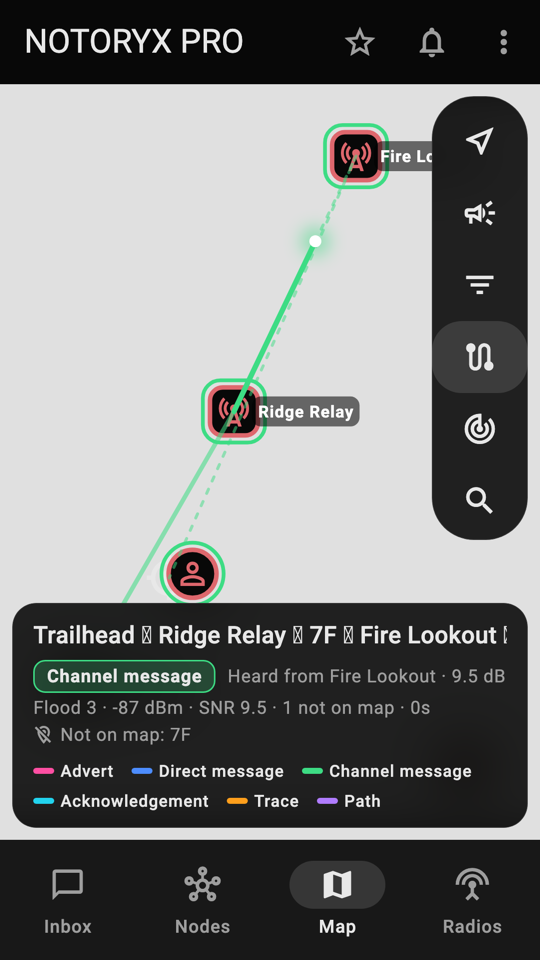
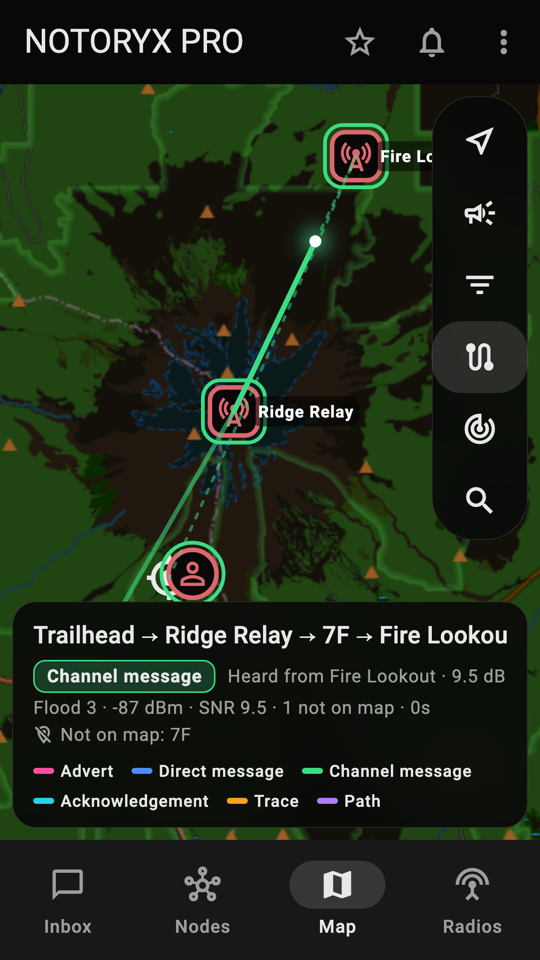
Screenshots: draw → in the traffic map shot, on real tiles
Tests don't fall back to other fonts, so the hop-path arrows drew as
boxes. Screenshot tests now set a test-only fallback font on every theme.
The traffic shot also gets live map tiles and goes into the README.

diff --git a/test/screenshots/traffic_screenshot_test.dart b/test/screenshots/traffic_screenshot_test.dart
@@ -14,6 +14,7 @@ import 'package:notoryx_pro/demo/demo_radio.dart';
 import 'package:notoryx_pro/mesh/mesh.dart';
 import 'package:notoryx_pro/store/mesh_store.dart';
 import 'package:notoryx_pro/ui/app.dart';
+import 'package:notoryx_pro/ui/map_tiles.dart';
 import 'package:notoryx_pro/ui/themes.dart';
 
 import 'readme_screenshots_test.dart' show loadFonts, ratio, run, size;
@@ -33,6 +34,13 @@ void main() {
     addTearDown(t.view.reset);
     addTearDown(t.platformDispatcher.clearAllTestValues);
 
+    // Tests block the network; the map fetches the few OpenStreetMap tiles
+    // it shows (the radios are demo).
+    final blocked = HttpOverrides.current;
+    HttpOverrides.global = null;
+    addTearDown(() => HttpOverrides.global = blocked);
+    final tiles = MapTiles.uncached();
+
     final store = MeshStore.memory();
     final app = AppController(
       store: store,
@@ -50,7 +58,11 @@ void main() {
     await t.pumpWidget(
       RepaintBoundary(
         key: boundary,
-        child: NotoryxProApp(app: app, initialTheme: const ThemeChoice()),
+        child: NotoryxProApp(
+          app: app,
+          initialTheme: const ThemeChoice(),
+          tiles: tiles,
+        ),
       ),
     );
     Future<void> frames(int n) async {
@@ -65,7 +77,7 @@ void main() {
     await t.tap(find.byIcon(Icons.map_outlined));
     await frames(10);
     await t.tap(find.byKey(const Key('map-fit')));
-    await frames(4);
+    await frames(25);
     await t.tap(find.byKey(const Key('map-traffic')));
     await frames(2);
 
@@ -102,8 +114,8 @@ void main() {
     await t.tap(find.byKey(const Key('map-traffic')));
     await frames(2);
     await t.pumpWidget(const SizedBox());
-    await t.pump(const Duration(seconds: 5));
+    await t.pump(const Duration(minutes: 2));
     await t.runAsync(app.shutdown);
     debugDisableShadows = true;
-  });
+  }, timeout: const Timeout(Duration(minutes: 3)));
 }

diff --git a/test/screenshots/readme_screenshots_test.dart b/test/screenshots/readme_screenshots_test.dart
@@ -89,18 +89,23 @@ Future<void> loadFonts() async {
   await load('MaterialIcons', ['MaterialIcons-Regular.otf']);
   // Roboto has no arrows (→) and there is no monospace font in tests; on a
   // Mac, system fonts fill those in (SARNEG code letters are monospace).
-  Future<void> system(String family, String path) async {
-    if (!File(path).existsSync()) return;
+  Future<bool> system(String family, String path) async {
+    if (!File(path).existsSync()) return false;
     final bytes = File(path).readAsBytesSync();
     await (FontLoader(
       family,
     )..addFont(Future.value(ByteData.sublistView(bytes)))).load();
+    return true;
   }
 
-  await system(
+  // Tests don't fall back to other fonts on their own, so every theme names
+  // this one as its fallback.
+  if (await system(
     'ArialUnicode',
     '/System/Library/Fonts/Supplemental/Arial Unicode.ttf',
-  );
+  )) {
+    debugFontFamilyFallback = const ['ArialUnicode'];
+  }
   await system(
     'monospace',
     '/System/Library/Fonts/Supplemental/Andale Mono.ttf',

diff --git a/lib/ui/themes.dart b/lib/ui/themes.dart
@@ -249,6 +249,12 @@ ColorScheme _nightOps(ColorScheme s) => s.copyWith(
   outlineVariant: const Color(0xFF5C2020),
 );
 
+/// Extra font families every theme falls back on, for glyphs its own font
+/// lacks. Only screenshot tests set it: they have no system fonts, so the
+/// "→" in hop paths draws as boxes without a font that has it.
+@visibleForTesting
+List<String>? debugFontFamilyFallback;
+
 /// The Material theme for [choice] at [brightness].
 ThemeData buildTheme(ThemeChoice choice, Brightness brightness) {
   final p = _paletteFor(choice);
@@ -277,6 +283,7 @@ ThemeData buildTheme(ThemeChoice choice, Brightness brightness) {
   );
   return ThemeData(
     colorScheme: scheme,
+    fontFamilyFallback: debugFontFamilyFallback,
     extensions: [
       MeshColors(
         meshcore: readableOn(fireEngineRed, backgrounds),

diff --git a/README.md b/README.md
@@ -23,15 +23,15 @@ Downloads are published in **[notoryx-PRO-releases](https://github.com/TheLogsAr
   </tr>
   <tr>
     <td><img src="docs/screenshots/map.png" width="200" alt="Map with MeshCore and Meshtastic nodes and the map toolbar"></td>
+    <td><img src="docs/screenshots/traffic-map.png" width="200" alt="Traffic map showing a channel message's path over three hops"></td>
     <td><img src="docs/screenshots/sarneg.png" width="200" alt="SARNEG code word screen with the word hidden"></td>
     <td><img src="docs/screenshots/sarneg-compose.png" width="200" alt="SARNEG composer turning 17S 4823 into code letters"></td>
-    <td><img src="docs/screenshots/menu.png" width="200" alt="Inbox menu with tools and settings"></td>
   </tr>
   <tr>
     <td align="center">One map</td>
+    <td align="center">Traffic map</td>
     <td align="center">SARNEG code word</td>
     <td align="center">Numbers as letters</td>
-    <td align="center">Tools and settings</td>
   </tr>
   <tr>
     <td><img src="docs/screenshots/line-of-sight.png" width="200" alt="Line of sight with a terrain profile and the Fresnel zone"></td>
